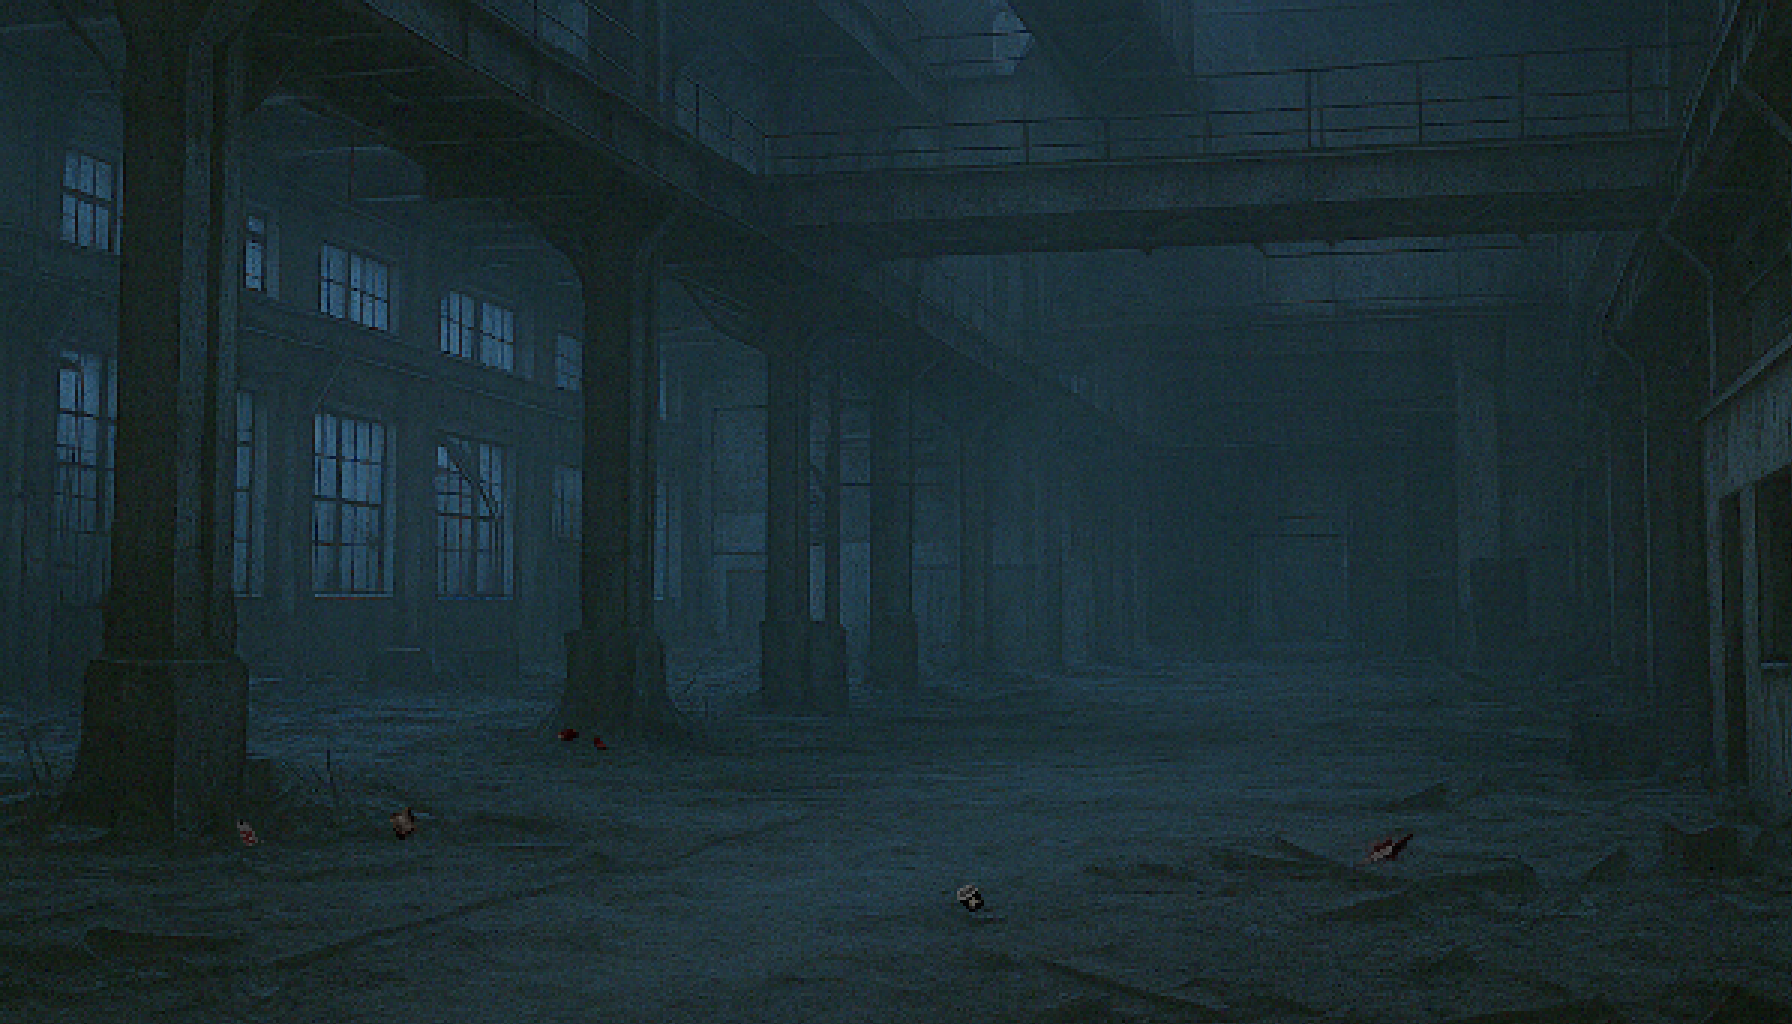
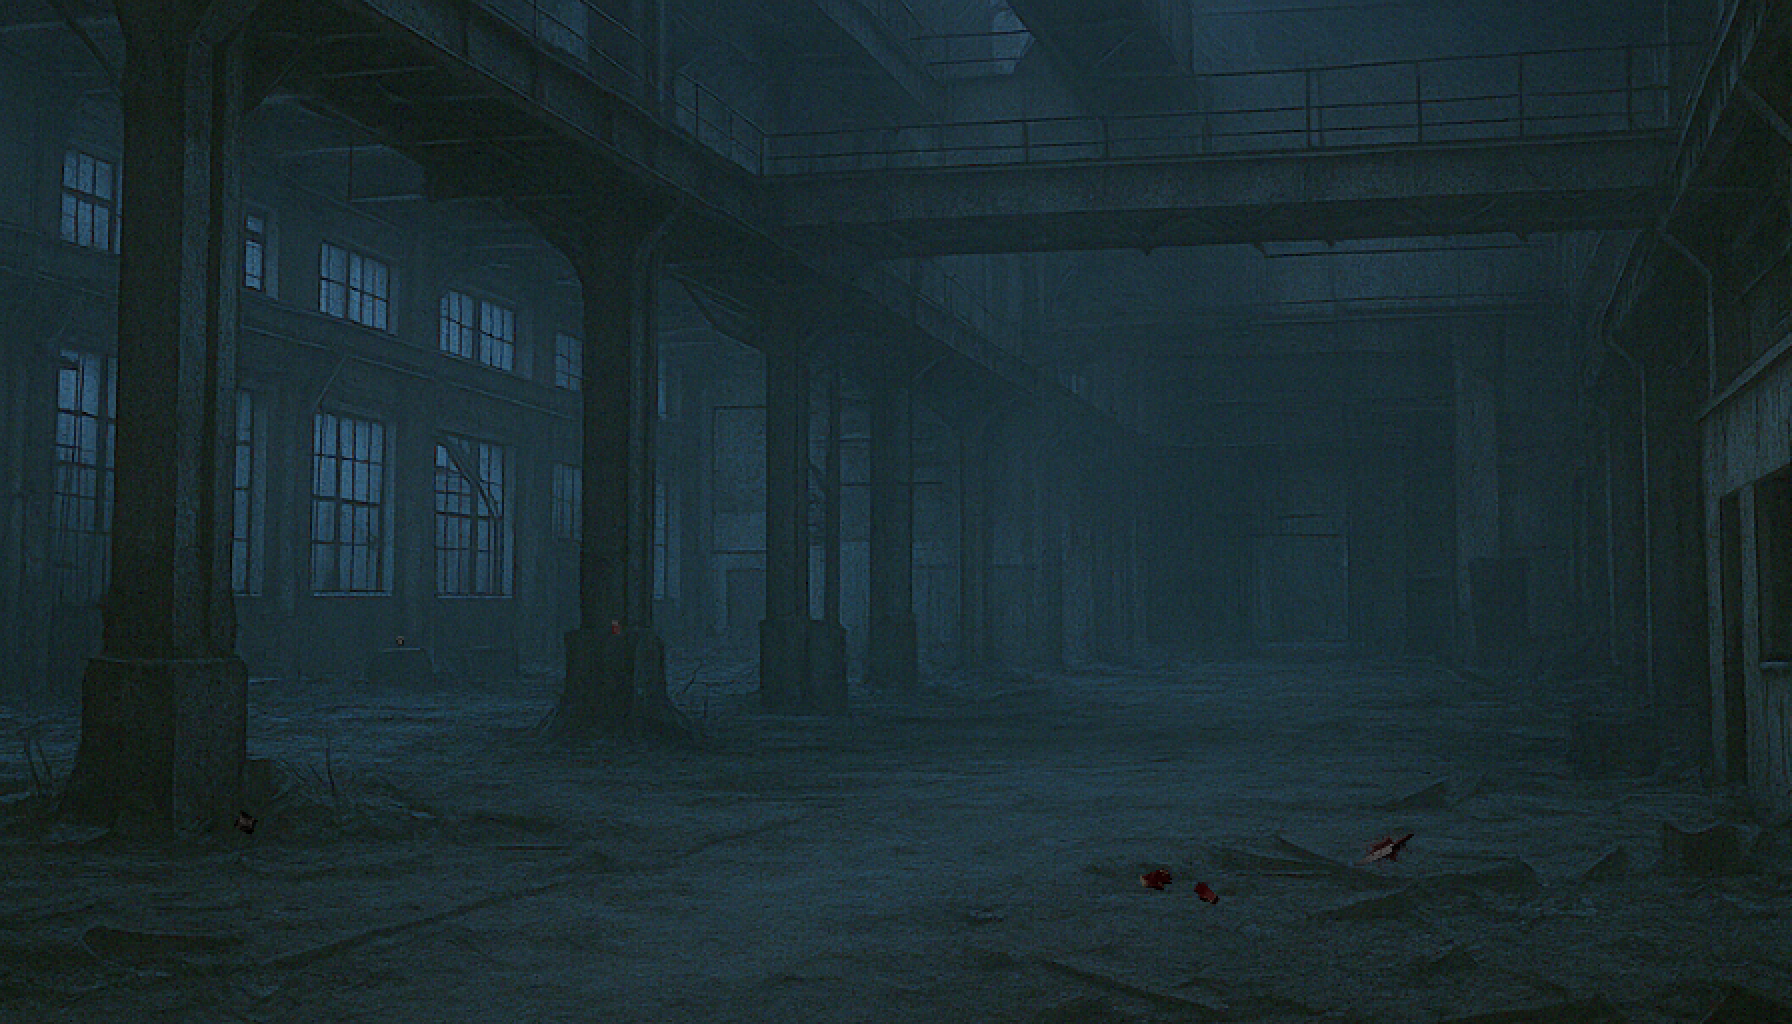
Finished Seoul

diff --git a/EchoesOfFate/src/AsherValeStoryline/AsherValeGameplayFactory.java b/EchoesOfFate/src/AsherValeStoryline/AsherValeGameplayFactory.java
@@ -422,7 +422,9 @@ public class AsherValeGameplayFactory extends javax.swing.JPanel {
         lblObjective1 = new javax.swing.JLabel();
         lblObjective = new javax.swing.JLabel();
         lblCluesFoundBackground = new javax.swing.JLabel();
+        lblLighterCheck = new javax.swing.JLabel();
         btnKnife = new javax.swing.JButton();
+        btnCup = new javax.swing.JButton();
         btnGloves = new javax.swing.JButton();
         btnLetter = new javax.swing.JButton();
         btnLighter = new javax.swing.JButton();
@@ -434,8 +436,6 @@ public class AsherValeGameplayFactory extends javax.swing.JPanel {
         lblCupCheck = new javax.swing.JLabel();
         lblGlovesCheck = new javax.swing.JLabel();
         lblLetterCheck = new javax.swing.JLabel();
-        lblLighterCheck = new javax.swing.JLabel();
-        btnCup = new javax.swing.JButton();
         lblBackground = new javax.swing.JLabel();
 
         setLayout(new org.netbeans.lib.awtextra.AbsoluteLayout());
@@ -471,6 +471,9 @@ public class AsherValeGameplayFactory extends javax.swing.JPanel {
         lblCluesFoundBackground.setOpaque(true);
         add(lblCluesFoundBackground, new org.netbeans.lib.awtextra.AbsoluteConstraints(20, 30, 330, 120));
 
+        lblLighterCheck.setIcon(new javax.swing.ImageIcon(getClass().getResource("/echoesoffateassets/check2.png"))); // NOI18N
+        add(lblLighterCheck, new org.netbeans.lib.awtextra.AbsoluteConstraints(470, 540, -1, -1));
+
         btnKnife.setContentAreaFilled(false);
         btnKnife.addActionListener(new java.awt.event.ActionListener() {
             public void actionPerformed(java.awt.event.ActionEvent evt) {
@@ -479,13 +482,21 @@ public class AsherValeGameplayFactory extends javax.swing.JPanel {
         });
         add(btnKnife, new org.netbeans.lib.awtextra.AbsoluteConstraints(1230, 750, 70, 50));
 
+        btnCup.setContentAreaFilled(false);
+        btnCup.addActionListener(new java.awt.event.ActionListener() {
+            public void actionPerformed(java.awt.event.ActionEvent evt) {
+                btnCupActionPerformed(evt);
+            }
+        });
+        add(btnCup, new org.netbeans.lib.awtextra.AbsoluteConstraints(260, 560, 30, 20));
+
         btnGloves.setContentAreaFilled(false);
         btnGloves.addActionListener(new java.awt.event.ActionListener() {
             public void actionPerformed(java.awt.event.ActionEvent evt) {
                 btnGlovesActionPerformed(evt);
             }
         });
-        add(btnGloves, new org.netbeans.lib.awtextra.AbsoluteConstraints(420, 650, 70, 40));
+        add(btnGloves, new org.netbeans.lib.awtextra.AbsoluteConstraints(1010, 790, 90, 50));
 
         btnLetter.setContentAreaFilled(false);
         btnLetter.addActionListener(new java.awt.event.ActionListener() {
@@ -493,7 +504,7 @@ public class AsherValeGameplayFactory extends javax.swing.JPanel {
                 btnLetterActionPerformed(evt);
             }
         });
-        add(btnLetter, new org.netbeans.lib.awtextra.AbsoluteConstraints(260, 730, 40, 40));
+        add(btnLetter, new org.netbeans.lib.awtextra.AbsoluteConstraints(100, 730, 40, 40));
 
         btnLighter.setContentAreaFilled(false);
         btnLighter.addActionListener(new java.awt.event.ActionListener() {
@@ -501,7 +512,7 @@ public class AsherValeGameplayFactory extends javax.swing.JPanel {
                 btnLighterActionPerformed(evt);
             }
         });
-        add(btnLighter, new org.netbeans.lib.awtextra.AbsoluteConstraints(100, 740, 40, 40));
+        add(btnLighter, new org.netbeans.lib.awtextra.AbsoluteConstraints(470, 540, 40, 30));
 
         btnContinue.setBackground(new java.awt.Color(36, 43, 53, 100));
         btnContinue.setForeground(new java.awt.Color(255, 255, 255));
@@ -535,24 +546,13 @@ public class AsherValeGameplayFactory extends javax.swing.JPanel {
         add(lblKnifeCheck, new org.netbeans.lib.awtextra.AbsoluteConstraints(1240, 770, -1, -1));
 
         lblCupCheck.setIcon(new javax.swing.ImageIcon(getClass().getResource("/echoesoffateassets/check2.png"))); // NOI18N
-        add(lblCupCheck, new org.netbeans.lib.awtextra.AbsoluteConstraints(830, 810, -1, -1));
+        add(lblCupCheck, new org.netbeans.lib.awtextra.AbsoluteConstraints(260, 560, -1, -1));
 
         lblGlovesCheck.setIcon(new javax.swing.ImageIcon(getClass().getResource("/echoesoffateassets/check2.png"))); // NOI18N
-        add(lblGlovesCheck, new org.netbeans.lib.awtextra.AbsoluteConstraints(440, 650, -1, -1));
+        add(lblGlovesCheck, new org.netbeans.lib.awtextra.AbsoluteConstraints(1040, 800, -1, -1));
 
         lblLetterCheck.setIcon(new javax.swing.ImageIcon(getClass().getResource("/echoesoffateassets/check2.png"))); // NOI18N
-        add(lblLetterCheck, new org.netbeans.lib.awtextra.AbsoluteConstraints(260, 740, -1, -1));
-
-        lblLighterCheck.setIcon(new javax.swing.ImageIcon(getClass().getResource("/echoesoffateassets/check2.png"))); // NOI18N
-        add(lblLighterCheck, new org.netbeans.lib.awtextra.AbsoluteConstraints(110, 750, -1, -1));
-
-        btnCup.setContentAreaFilled(false);
-        btnCup.addActionListener(new java.awt.event.ActionListener() {
-            public void actionPerformed(java.awt.event.ActionEvent evt) {
-                btnCupActionPerformed(evt);
-            }
-        });
-        add(btnCup, new org.netbeans.lib.awtextra.AbsoluteConstraints(820, 810, 50, 40));
+        add(lblLetterCheck, new org.netbeans.lib.awtextra.AbsoluteConstraints(100, 740, -1, -1));
 
         lblBackground.setFont(new java.awt.Font("Gill Sans Ultra Bold", 0, 12)); // NOI18N
         lblBackground.setHorizontalAlignment(javax.swing.SwingConstants.CENTER);

diff --git a/EchoesOfFate/src/echoesoffate/ChooseCharacter.java b/EchoesOfFate/src/echoesoffate/ChooseCharacter.java
@@ -42,7 +42,7 @@ public class ChooseCharacter extends javax.swing.JPanel {
             userData.setCharacter(characterName); 
             System.out.println("Selected Character: " + userData.getCharacter());
             //frame.showScreen(characterName);
-            frame.showScreen("AsherValeGameplaySeoulToBusan");
+            frame.showScreen("AsherValeGameplayFactory");
         }
     }
    
